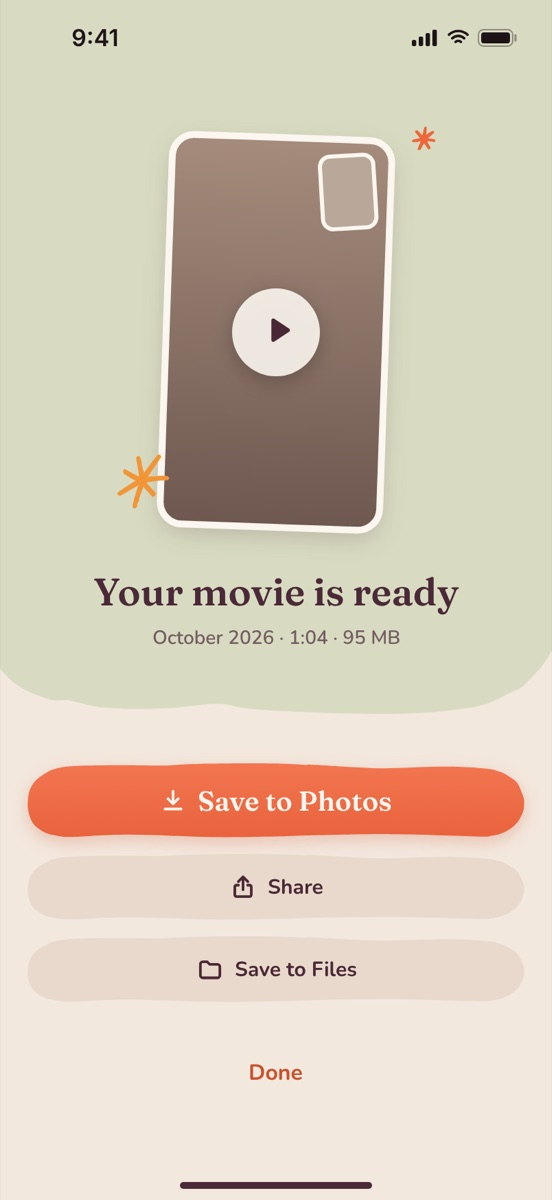
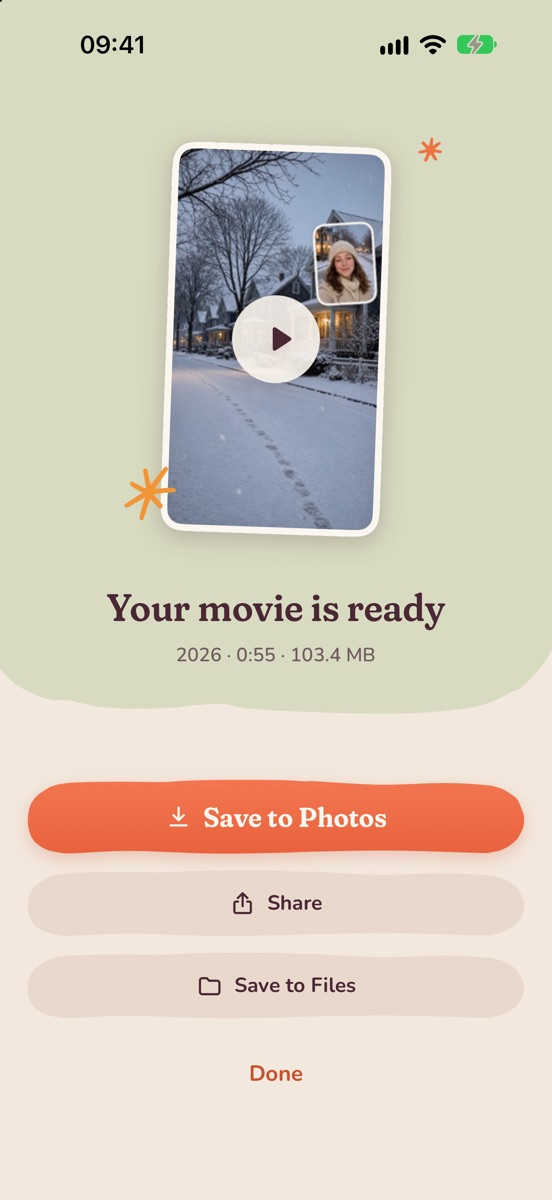
App Store line, final panel, legal pages, SEO
- The home-made badge goes: Apple's badge is only for apps already on the
  App Store, unmodified. A plain "Coming soon to the App Store" line instead
- Final panel shows the movie-ready screen with real footage
- Privacy Policy: Children and Your rights; Terms: Changes
- Canonical links, Open Graph and Twitter tags with a 1200x630 card,
  MobileApplication JSON-LD, sitemap.xml, robots sitemap line, 404 noindex

diff --git a/index.html b/index.html
@@ -5,11 +5,19 @@
   <meta name="viewport" content="width=device-width, initial-scale=1">
   <title>MimoDays: your life, in little pieces</title>
   <meta name="description" content="A private memory journal for iPhone and iPad. A small surprise reminds you to catch the moment, both cameras keep the scene and you, and one day the little pieces become a movie.">
-  <meta name="theme-color" content="#F3E8DE">
+  <link rel="canonical" href="https://mimodays.mrmaier.com/">
+  <meta property="og:site_name" content="MimoDays">
   <meta property="og:title" content="MimoDays: your life, in little pieces">
   <meta property="og:description" content="A private memory journal for iPhone and iPad. No feed. No pressure.">
   <meta property="og:type" content="website">
-  <meta property="og:image" content="/assets/icon-512.png">
+  <meta property="og:url" content="https://mimodays.mrmaier.com/">
+  <meta property="og:image" content="https://mimodays.mrmaier.com/assets/social-card.jpg">
+  <meta property="og:image:width" content="1200">
+  <meta property="og:image:height" content="630">
+  <meta property="og:image:alt" content="MimoDays on iPhone: the Today screen and the camera with both views">
+  <meta name="twitter:card" content="summary_large_image">
+  <script type="application/ld+json">{"@context": "https://schema.org", "@type": "MobileApplication", "name": "MimoDays", "operatingSystem": "iOS, iPadOS", "applicationCategory": "LifestyleApplication", "description": "A private memory journal for iPhone and iPad. A small surprise reminds you to catch the moment, both cameras keep the scene and you, and one day the little pieces become a movie.", "url": "https://mimodays.mrmaier.com/", "image": "https://mimodays.mrmaier.com/assets/icon-512.png", "screenshot": "https://mimodays.mrmaier.com/assets/social-card.jpg", "offers": {"@type": "Offer", "price": "0", "priceCurrency": "USD"}, "author": {"@type": "Person", "name": "Andrew Maier"}}</script>
+  <meta name="theme-color" content="#F3E8DE">
   <link rel="icon" href="/assets/icon-64.png" type="image/png">
   <link rel="apple-touch-icon" href="/apple-touch-icon.png">
   <link rel="preload" href="/assets/fonts/Fraunces.woff2" as="font" type="font/woff2" crossorigin>
@@ -32,7 +40,7 @@
           <li><a href="#faq">FAQ</a></li>
         </ul>
       </nav>
-      <span class="badge" role="img" aria-label="Coming soon on the App Store"><img src="/assets/icon-64.png" alt=""><span><small>Coming soon on the</small><b>App Store</b></span></span>
+      <span class="soon"><img src="/assets/icon-64.png" alt="" width="28" height="28">Coming soon to the App Store</span>
       <button class="menu-button" type="button" aria-expanded="false" aria-controls="site-nav"><span></span><span></span><span></span><span class="visually-hidden">Menu</span></button>
     </div>
   </header>
@@ -64,7 +72,7 @@
             <h1 class="h1" id="hero-title">Your life,<br>in little <span class="underlined">pieces.</span></h1>
             <p class="lead">MimoDays surprises you with a small reminder to capture what’s happening around you. Keep the ordinary moments. One day, watch them become your story.</p>
             <div class="cta-row">
-              <span class="badge badge--large" role="img" aria-label="Coming soon on the App Store"><img src="/assets/icon-64.png" alt=""><span><small>Coming soon on the</small><b>App Store</b></span></span>
+              <span class="soon soon--large"><img src="/assets/icon-64.png" alt="" width="28" height="28">Coming soon to the App Store</span>
               <a class="link" href="#surprise">See how it works&nbsp;↓</a>
             </div>
             <p class="small hero__note">A private memory journal. No feed. No pressure.</p>
@@ -203,7 +211,7 @@
           <h2 class="h2" id="final-title">One ordinary day.<br>A story worth keeping.</h2>
           <p class="lead">Start collecting life’s little pieces with MimoDays.</p>
           <div class="cta-row">
-            <span class="badge" role="img" aria-label="Coming soon on the App Store"><img src="/assets/icon-64.png" alt=""><span><small>Coming soon on the</small><b>App Store</b></span></span>
+            <span class="soon"><img src="/assets/icon-64.png" alt="" width="28" height="28">Coming soon to the App Store</span>
             <span class="hand">Made for real life, not a highlight reel.</span>
           </div>
           <div class="phone final__phone" aria-hidden="true"><div class="phone__screen"><img class="is-on" src="/assets/screens/ready.jpg" alt="" width="552" height="1200" loading="lazy"></div></div>

diff --git a/privacy-policy/index.html b/privacy-policy/index.html
@@ -5,6 +5,17 @@
   <meta name="viewport" content="width=device-width, initial-scale=1">
   <title>Privacy Policy · MimoDays</title>
   <meta name="description" content="How MimoDays handles your data: it doesn’t collect, keep or share it.">
+  <link rel="canonical" href="https://mimodays.mrmaier.com/privacy-policy/">
+  <meta property="og:site_name" content="MimoDays">
+  <meta property="og:title" content="Privacy Policy · MimoDays">
+  <meta property="og:description" content="How MimoDays handles your data: it doesn’t collect, keep or share it.">
+  <meta property="og:type" content="website">
+  <meta property="og:url" content="https://mimodays.mrmaier.com/privacy-policy/">
+  <meta property="og:image" content="https://mimodays.mrmaier.com/assets/social-card.jpg">
+  <meta property="og:image:width" content="1200">
+  <meta property="og:image:height" content="630">
+  <meta property="og:image:alt" content="MimoDays on iPhone: the Today screen and the camera with both views">
+  <meta name="twitter:card" content="summary_large_image">
   <meta name="theme-color" content="#F3E8DE">
   <link rel="icon" href="/assets/icon-64.png" type="image/png">
   <link rel="apple-touch-icon" href="/apple-touch-icon.png">
@@ -26,7 +37,7 @@
           <li><a href="/#faq">FAQ</a></li>
         </ul>
       </nav>
-      <span class="badge" role="img" aria-label="Coming soon on the App Store"><img src="/assets/icon-64.png" alt=""><span><small>Coming soon on the</small><b>App Store</b></span></span>
+      <span class="soon"><img src="/assets/icon-64.png" alt="" width="28" height="28">Coming soon to the App Store</span>
       <button class="menu-button" type="button" aria-expanded="false" aria-controls="site-nav"><span></span><span></span><span></span><span class="visually-hidden">Menu</span></button>
     </div>
   </header>
@@ -52,6 +63,10 @@
       <p>This site is static: no cookies, no analytics, no forms. Its hosting provider may process technical data such as your IP address to deliver the pages and protect the site.</p>
       <h2>Your choices</h2>
       <p>You can delete any moment, or everything at once in Settings › Privacy &amp; App Lock › Delete all data. Deleting the app removes all its data from the device.</p>
+      <h2>Children</h2>
+      <p>MimoDays collects no personal data from anyone, children included. The app isn’t directed at children under 13.</p>
+      <h2>Your rights</h2>
+      <p>Because I hold no personal data about you, there is nothing for me to access, correct, export or delete. Everything is on your device and under your control. If you write to me, I use your email only to reply and delete it when the conversation is over.</p>
       <h2>Changes</h2>
       <p>If this policy changes, the new version will be posted here with a new date.</p>
     </article>

diff --git a/terms/index.html b/terms/index.html
@@ -5,6 +5,17 @@
   <meta name="viewport" content="width=device-width, initial-scale=1">
   <title>Terms of Use · MimoDays</title>
   <meta name="description" content="The terms for using MimoDays.">
+  <link rel="canonical" href="https://mimodays.mrmaier.com/terms/">
+  <meta property="og:site_name" content="MimoDays">
+  <meta property="og:title" content="Terms of Use · MimoDays">
+  <meta property="og:description" content="The terms for using MimoDays.">
+  <meta property="og:type" content="website">
+  <meta property="og:url" content="https://mimodays.mrmaier.com/terms/">
+  <meta property="og:image" content="https://mimodays.mrmaier.com/assets/social-card.jpg">
+  <meta property="og:image:width" content="1200">
+  <meta property="og:image:height" content="630">
+  <meta property="og:image:alt" content="MimoDays on iPhone: the Today screen and the camera with both views">
+  <meta name="twitter:card" content="summary_large_image">
   <meta name="theme-color" content="#F3E8DE">
   <link rel="icon" href="/assets/icon-64.png" type="image/png">
   <link rel="apple-touch-icon" href="/apple-touch-icon.png">
@@ -26,7 +37,7 @@
           <li><a href="/#faq">FAQ</a></li>
         </ul>
       </nav>
-      <span class="badge" role="img" aria-label="Coming soon on the App Store"><img src="/assets/icon-64.png" alt=""><span><small>Coming soon on the</small><b>App Store</b></span></span>
+      <span class="soon"><img src="/assets/icon-64.png" alt="" width="28" height="28">Coming soon to the App Store</span>
       <button class="menu-button" type="button" aria-expanded="false" aria-controls="site-nav"><span></span><span></span><span></span><span class="visually-hidden">Menu</span></button>
     </div>
   </header>
@@ -47,6 +58,8 @@
       <p>Respect the people around you and the law where you are when you capture a moment, especially when filming others.</p>
       <h2>As is</h2>
       <p>MimoDays is provided as is. To the extent the law allows, I’m not liable for lost data or indirect damages.</p>
+      <h2>Changes</h2>
+      <p>If these terms change, the new version will be posted here with a new date. Using MimoDays after that means you accept them.</p>
       <h2>Contact</h2>
       <p><a href="mailto:mimodays@mrmaier.com">mimodays@mrmaier.com</a></p>
     </article>

diff --git a/assets/site.css b/assets/site.css
@@ -86,13 +86,11 @@ h1, h2, h3, p { margin: 0; }
 .menu-button { display: none; width: 44px; height: 44px; border: 0; background: none; padding: 10px; color: var(--ink); cursor: pointer; }
 .menu-button span { display: block; height: 2.5px; border-radius: 2px; background: currentColor; margin: 5px 0; }
 
-/* Coming soon badge: not a link until the app is on the App Store. */
-.badge { display: inline-flex; align-items: center; gap: 12px; height: 52px; padding: 0 22px 0 14px; border-radius: 14px; background: var(--ink); color: var(--card); white-space: nowrap; }
-.badge img { width: 28px; height: 28px; border-radius: 7px; }
-.badge small { display: block; font: 600 11px/1.1 var(--sans); opacity: .85; }
-.badge b { display: block; font: 800 19px/1.1 var(--sans); }
-.badge--large { height: 60px; padding-right: 26px; }
-.badge--large b { font-size: 21px; }
+/* Not Apple's badge: that is only for apps already on the App Store. A plain line until the release. */
+.soon { display: inline-flex; align-items: center; gap: 10px; height: 48px; padding: 0 20px 0 10px; border-radius: 999px; background: var(--card); color: var(--ink); font: 700 15px/1 var(--sans); white-space: nowrap; box-shadow: inset 0 0 0 1.5px var(--border); }
+.soon img { width: 28px; height: 28px; border-radius: 7px; }
+.soon--large { height: 56px; padding-right: 24px; font-size: 17px; }
+.soon--large img { width: 34px; height: 34px; border-radius: 8px; }
 
 /* The story: sections 1-6, with one phone that stays put on wide screens. */
 .story { position: relative; }
@@ -220,7 +218,7 @@ h1, h2, h3, p { margin: 0; }
   .site-header .wrap { height: 76px; }
   .wordmark { font-size: 22px; }
   .menu-button { display: block; }
-  .site-header .badge { display: none; }
+  .site-header .soon { display: none; }
   .nav { display: none; position: absolute; top: 70px; left: var(--gutter); right: var(--gutter); padding: 14px 22px; border-radius: 18px; background: var(--card); box-shadow: 0 16px 40px -14px rgba(74, 39, 52, .4); }
   .nav.is-open { display: block; }
   .nav ul { flex-direction: column; gap: 0; }

diff --git a/support/index.html b/support/index.html
@@ -5,6 +5,17 @@
   <meta name="viewport" content="width=device-width, initial-scale=1">
   <title>Support · MimoDays</title>
   <meta name="description" content="Get help with MimoDays.">
+  <link rel="canonical" href="https://mimodays.mrmaier.com/support/">
+  <meta property="og:site_name" content="MimoDays">
+  <meta property="og:title" content="Support · MimoDays">
+  <meta property="og:description" content="Get help with MimoDays.">
+  <meta property="og:type" content="website">
+  <meta property="og:url" content="https://mimodays.mrmaier.com/support/">
+  <meta property="og:image" content="https://mimodays.mrmaier.com/assets/social-card.jpg">
+  <meta property="og:image:width" content="1200">
+  <meta property="og:image:height" content="630">
+  <meta property="og:image:alt" content="MimoDays on iPhone: the Today screen and the camera with both views">
+  <meta name="twitter:card" content="summary_large_image">
   <meta name="theme-color" content="#F3E8DE">
   <link rel="icon" href="/assets/icon-64.png" type="image/png">
   <link rel="apple-touch-icon" href="/apple-touch-icon.png">
@@ -26,7 +37,7 @@
           <li><a href="/#faq">FAQ</a></li>
         </ul>
       </nav>
-      <span class="badge" role="img" aria-label="Coming soon on the App Store"><img src="/assets/icon-64.png" alt=""><span><small>Coming soon on the</small><b>App Store</b></span></span>
+      <span class="soon"><img src="/assets/icon-64.png" alt="" width="28" height="28">Coming soon to the App Store</span>
       <button class="menu-button" type="button" aria-expanded="false" aria-controls="site-nav"><span></span><span></span><span></span><span class="visually-hidden">Menu</span></button>
     </div>
   </header>

diff --git a/404.html b/404.html
@@ -5,6 +5,7 @@
   <meta name="viewport" content="width=device-width, initial-scale=1">
   <title>Page not found · MimoDays</title>
   <meta name="description" content="This page doesn’t exist.">
+  <meta name="robots" content="noindex">
   <meta name="theme-color" content="#F3E8DE">
   <link rel="icon" href="/assets/icon-64.png" type="image/png">
   <link rel="apple-touch-icon" href="/apple-touch-icon.png">
@@ -26,7 +27,7 @@
           <li><a href="/#faq">FAQ</a></li>
         </ul>
       </nav>
-      <span class="badge" role="img" aria-label="Coming soon on the App Store"><img src="/assets/icon-64.png" alt=""><span><small>Coming soon on the</small><b>App Store</b></span></span>
+      <span class="soon"><img src="/assets/icon-64.png" alt="" width="28" height="28">Coming soon to the App Store</span>
       <button class="menu-button" type="button" aria-expanded="false" aria-controls="site-nav"><span></span><span></span><span></span><span class="visually-hidden">Menu</span></button>
     </div>
   </header>
